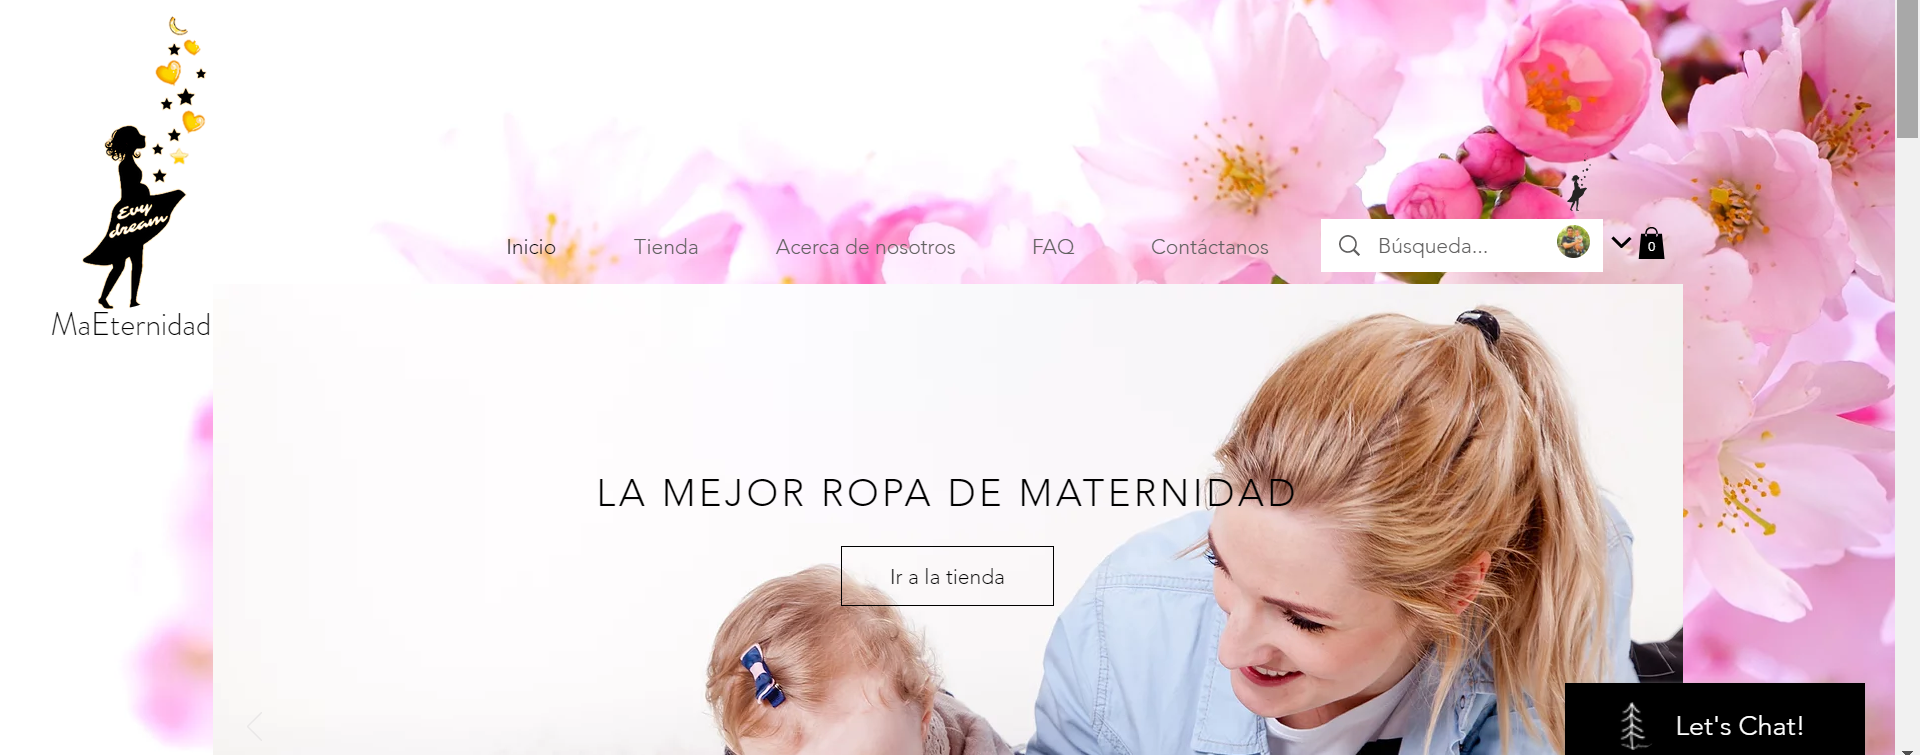
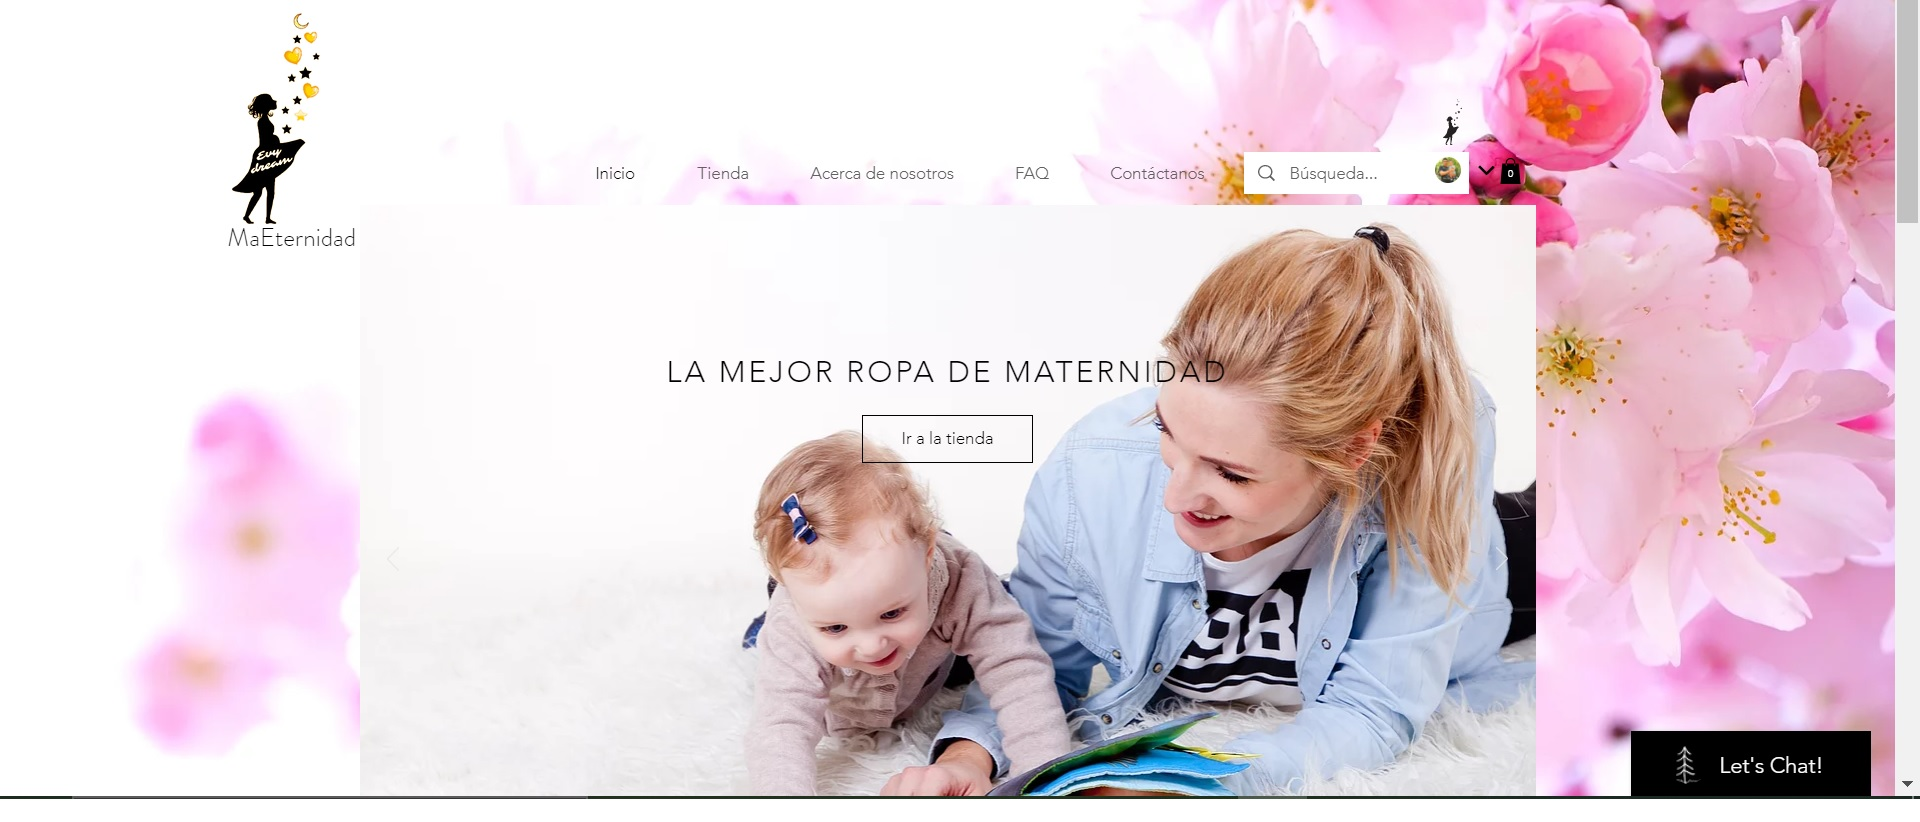
Third Commit
Updated Features:
- Maeternidad first picture
-Maeternidad logo in mobile view
- d-aya.com domain is no longer available.
 -There is now one link in each thumbnail in portfolio, which shows project description page.

diff --git a/index.html b/index.html
@@ -313,16 +313,11 @@
                 <h4>Web Site Project 2</h4>
                 <p>Distribuidora A&A</p>
                 <div class="portfolio-links">
-                  <a href="assets/img/portfolio/aya-0.jpg" data-gallery="portfolioGallery" class="portfolio-lightbox" title="Website for drug distributor business"><i class="bx bx-plus"></i></a>
                   <a href="proyecto-distribuidora-aya.html" title="More Details"><i class="bx bx-link"></i></a>
                 </div>
               </div>
             </div>
           </div><!--End of Web Page 2-->
-
-
-
-
 
           <div class="col-lg-4 col-md-6 portfolio-item filter-app">
             <div class="portfolio-wrap">
@@ -331,7 +326,6 @@
                 <h4>Coming Soon</h4>
                 <p></p>
                 <div class="portfolio-links">
-                  <a href="assets/img/portfolio/coming-soon.png" data-gallery="portfolioGallery" class="portfolio-lightbox" title="Web 2"><i class="bx bx-plus"></i></a>
                   <a href="#" title="More Details"><i class="bx bx-link"></i></a>
                 </div>
               </div>
@@ -346,7 +340,6 @@
                 <h4>Website Project 3</h4>
                 <p>Maeternidad.com</p>
                 <div class="portfolio-links">
-                  <a href="assets/img/portfolio/maeternidad-0.jpg" data-gallery="portfolioGallery" class="portfolio-lightbox" title="Online Store"><i class="bx bx-plus"></i></a>
                   <a href="proyecto-maeternidad.html" title="More Details"><i class="bx bx-link"></i></a>
                 </div>
               </div>
@@ -360,7 +353,6 @@
                 <h4>Coming Soon</h4>
                 <p></p>
                 <div class="portfolio-links">
-                  <a href="assets/img/portfolio/coming-soon.png" data-gallery="portfolioGallery" class="portfolio-lightbox" title="App 3"><i class="bx bx-plus"></i></a>
                   <a href="#" title="More Details"><i class="bx bx-link"></i></a>
                 </div>
               </div>
@@ -374,7 +366,6 @@
                 <h4>Web Development - 1</h4>
                 <p>Distribuidora A&A</p>
                 <div class="portfolio-links">
-                  <a href="assets/img/portfolio/aya-6.jpg" data-gallery="portfolioGallery" class="portfolio-lightbox" title="Internal Inventory System"><i class="bx bx-plus"></i></a>
                   <a href="proyecto-inventario-aya.html" title="More Details"><i class="bx bx-link"></i></a>
                 </div>
               </div>
@@ -388,7 +379,6 @@
                 <h4>Coming Soon</h4>
                 <p></p>
                 <div class="portfolio-links">
-                  <a href="assets/img/portfolio/coming-soon.png" data-gallery="portfolioGallery" class="portfolio-lightbox" title="Coming Soon"><i class="bx bx-plus"></i></a>
                   <a href="#" title="More Details"><i class="bx bx-link"></i></a>
                 </div>
               </div>
@@ -402,7 +392,6 @@
                 <h4>Web Site Project 1</h4>
                 <p>El Arpegio</p>
                 <div class="portfolio-links">
-                  <a href="assets/img/portfolio/elarpegio-0.jpg" data-gallery="portfolioGallery" class="portfolio-lightbox" title="Basic guitar course for beginners."><i class="bx bx-plus"></i></a>
                   <a href="proyecto-el-arpegio.html" title="More Details"><i class="bx bx-link"></i></a>
                 </div>
               </div>
@@ -416,7 +405,6 @@
                 <h4>Coming Soon</h4>
                 <p></p>
                 <div class="portfolio-links">
-                  <a href="assets/img/portfolio/coming-soon.png" data-gallery="portfolioGallery" class="portfolio-lightbox" title="Coming Soon"><i class="bx bx-plus"></i></a>
                   <a href="#" title="More Details"><i class="bx bx-link"></i></a>
                 </div>
               </div>
@@ -431,7 +419,6 @@
                 <h4>Coming soon</h4>
                 <p></p>
                 <div class="portfolio-links">
-                  <a href="assets/img/portfolio/coming-soon.png" data-gallery="portfolioGallery" class="portfolio-lightbox" title="Coming Soon"><i class="bx bx-plus"></i></a>
                   <a href="#" title="More Details"><i class="bx bx-link"></i></a>
                 </div>
               </div>
@@ -459,7 +446,7 @@
               <div class="address">
                 <i class="bi bi-geo-alt"></i>
                 <h4>Location:</h4>
-                <p>312 Cactus, Apodaca, N.L. 66635</p>
+                <p>Apodaca, N.L. 66635</p>
               </div>
 
               <div class="email mt-4">
@@ -479,8 +466,8 @@
           </div>
 
           <div class="col-lg-5 d-flex align-items-stretch">
-            <iframe style="border:0; width: 100%; height: 270px;" src="https://www.google.com/maps/embed?pb=!1m18!1m12!1m3!1d3593.2514451280504!2d-100.25837848574513!3d25.762257014866744!2m3!1f0!2f0!3f0!3m2!1i1024!2i768!4f13.1!3m3!1m2!1s0x8662eb52695cf563%3A0x18f36bde27f8ea4c!2sCactus%20312%2C%20Enramada%20II%2C%2066635%20Cd%20Apodaca%2C%20N.L.!5e0!3m2!1ses!2smx!4v1631800490049!5m2!1ses!2smx" frameborder="0" allowfullscreen></iframe>
-          </div>
+            <iframe style="border:0; width: 100%; height: 270px;" src="https://www.google.com/maps/embed?pb=!1m18!1m12!1m3!1d3593.05516690826!2d-100.263646185992!3d25.768741314600476!2m3!1f0!2f0!3f0!3m2!1i1024!2i768!4f13.1!3m3!1m2!1s0x8662eb5371834ce3%3A0xcad25ff95528e99a!2sAv.%20Concepcion%20Barragan%2C%20Mujeres%20Ilustres%20(Fomerrey%204)%2C%20Cd%20Apodaca%2C%20N.L.!5e0!3m2!1ses!2smx!4v1631806180717!5m2!1ses!2smx" frameborder="0" allowfullscreen></iframe>        
+		 </div>
 
         </div>
 
@@ -521,7 +508,7 @@
   <footer id="footer">
       <div class="container">
       <div class="copyright">
-        2021 &copy; <strong><span>XJoule Project</span></strong>.
+        2021<strong><span>XJoule Project</span></strong>.
       </div>
       <div class="credits">
         Designed by Julio Soto</a>

diff --git a/proyecto-inventario-aya.html b/proyecto-inventario-aya.html
@@ -5,7 +5,7 @@
   <meta charset="utf-8">
   <meta content="width=device-width, initial-scale=1.0" name="viewport">
 
-  <title>Website - Distribuidora A&A</title>
+  <title>Web Development - Distribuidora A&A</title>
   <meta content="" name="description">
   <meta content="" name="keywords">
 
@@ -118,7 +118,7 @@
                 <li><strong>Category</strong>: Web Development</li>
                 <li><strong>Client</strong>: Distribuidora A&A S.A. de C.V.</li>
                 <li><strong>Project date</strong>: May, 2016</li>
-                <li><strong>Project URL</strong>: <a href="https://d-aya.com">https://d-aya.com</a></li>
+                <li><strong>Project URL</strong>: <a href="#">Not Available</a></li>
               </ul>
             </div>
             <div class="portfolio-description">

diff --git a/proyecto-maeternidad.html b/proyecto-maeternidad.html
@@ -82,12 +82,13 @@
             <div class="portfolio-details-slider swiper-container">
               <div class="swiper-wrapper align-items-center">
 
-                <div class="swiper-slide">
-                  <img src="assets/img/portfolio/maeternidad-1.jpg" alt="">
-                </div>
 
                 <div class="swiper-slide">
                   <img src="assets/img/portfolio/maeternidad-2.jpg" alt="">
+                </div>
+				
+                <div class="swiper-slide">
+                  <img src="assets/img/portfolio/maeternidad-1.jpg" alt="">
                 </div>
 
                 <div class="swiper-slide">

diff --git a/proyecto-distribuidora-aya.html b/proyecto-distribuidora-aya.html
@@ -114,7 +114,7 @@
                 <li><strong>Category</strong>: Web design</li>
                 <li><strong>Client</strong>: Distribuidora A&A S.A. de C.V.</li>
                 <li><strong>Project date</strong>: May, 2015</li>
-                <li><strong>Project URL</strong>: <a href="https://d-aya.com">https://d-aya.com</a></li>
+                <li><strong>Project URL</strong>: <a href="#">Not Available</a></li>
               </ul>
             </div>
             <div class="portfolio-description">
